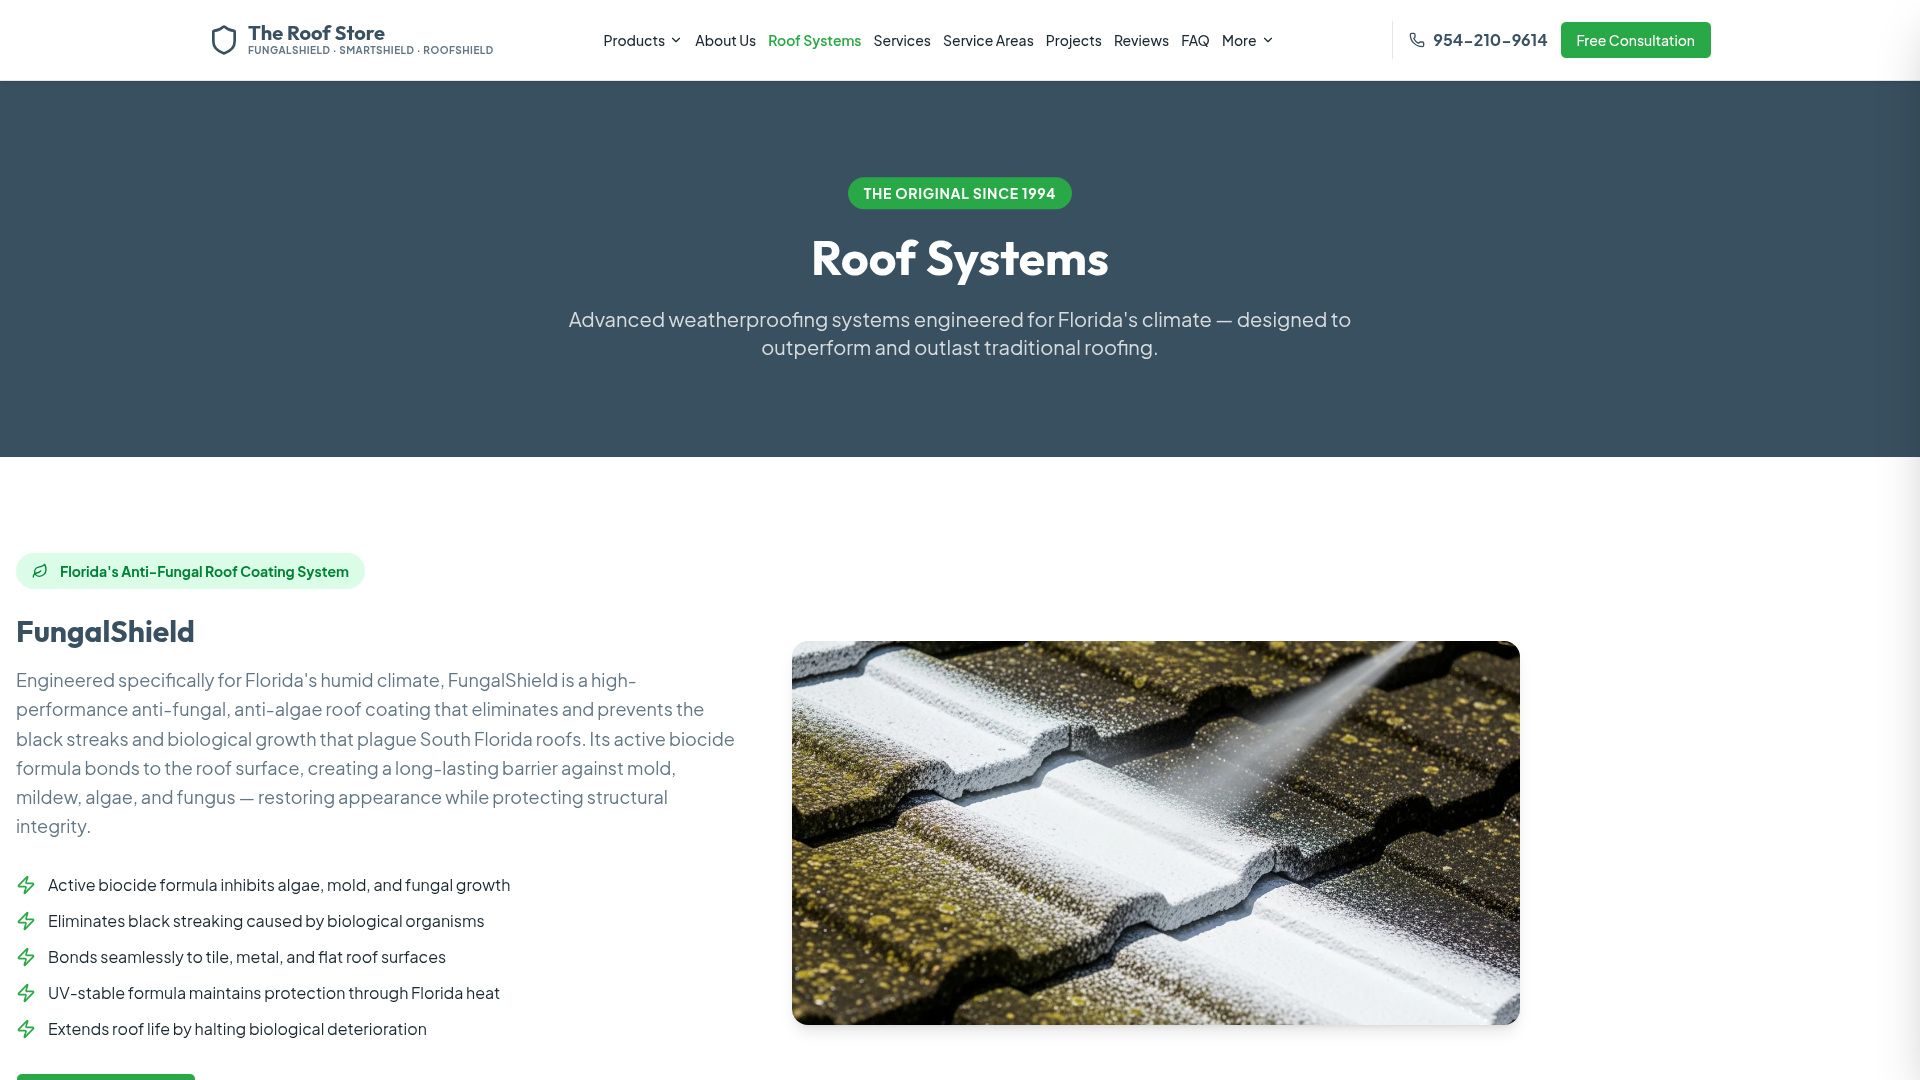
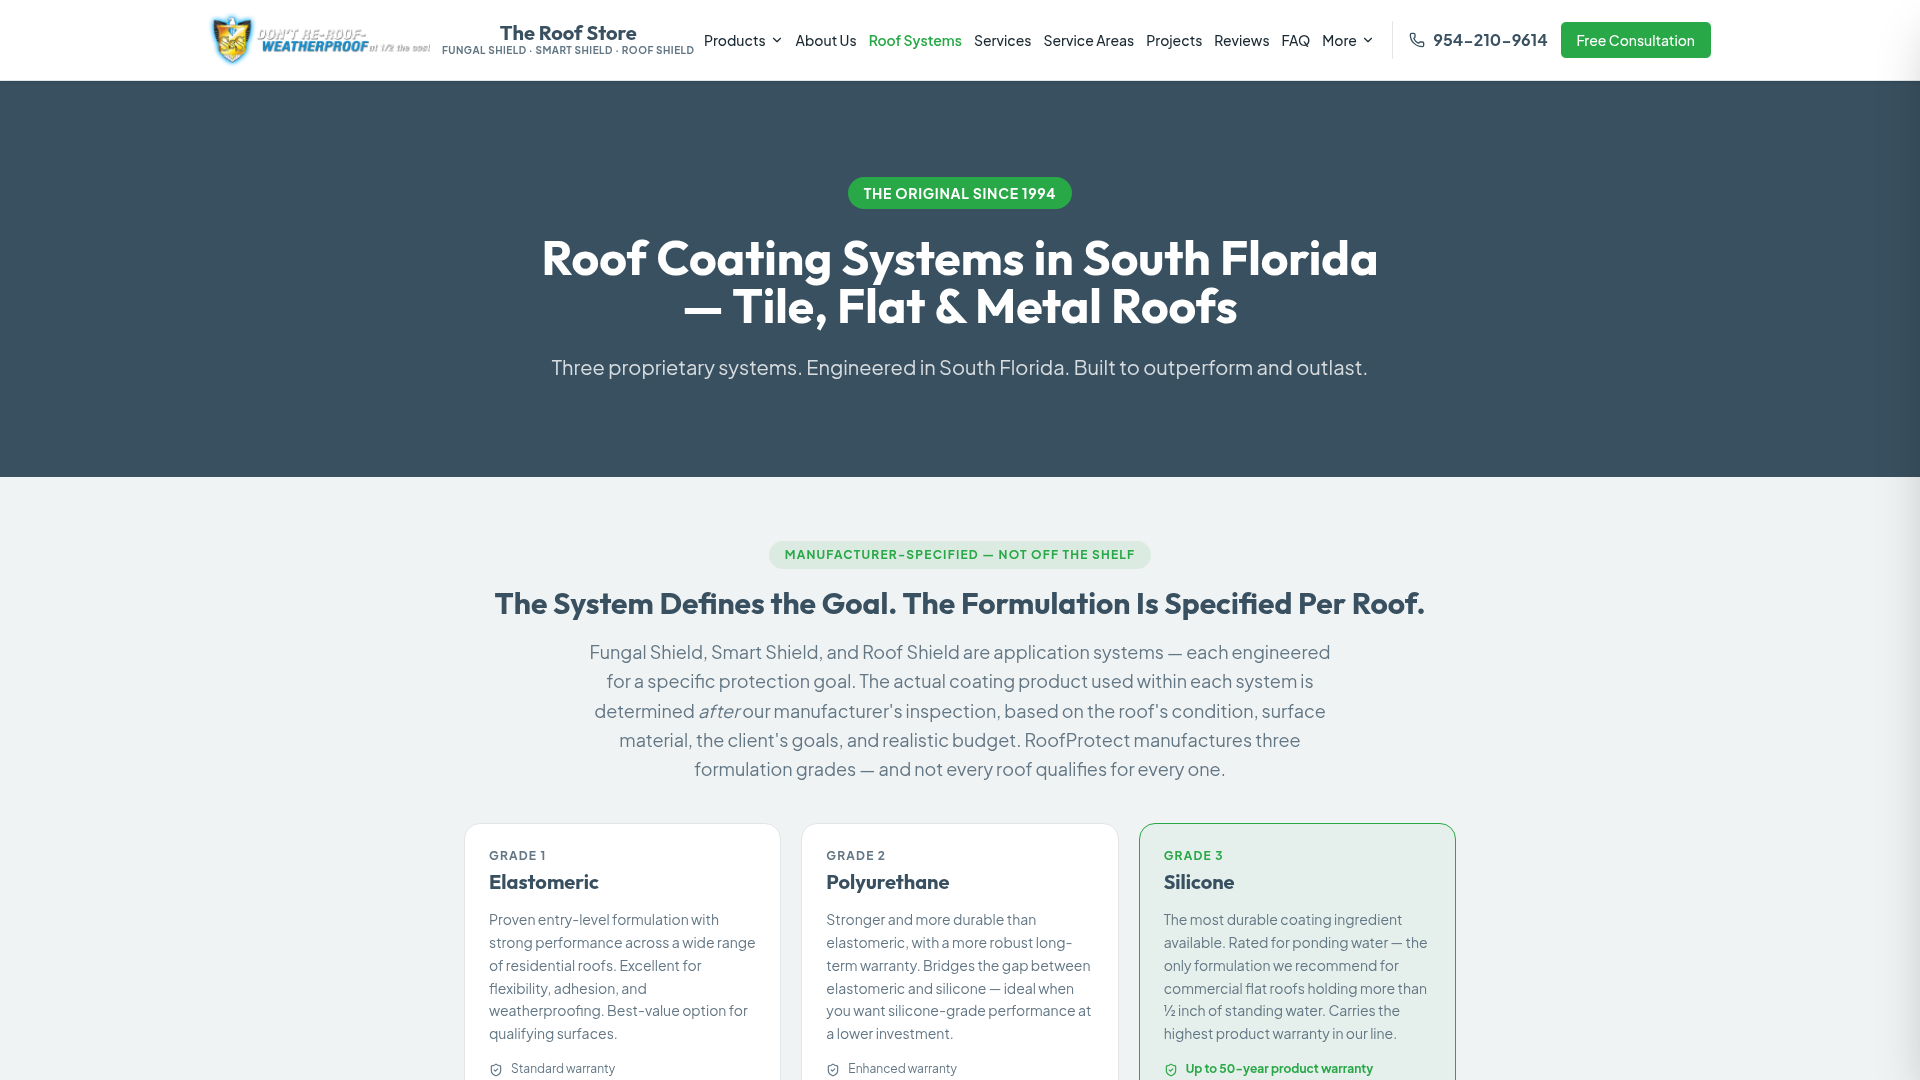
Update product images to use existing site assets
Replaces outdated gallery images for the Smart Shield product with existing images found on the roof-systems page, updating the `galleryImages` array in `products/data.ts`.

Replit-Commit-Author: Agent
Replit-Commit-Session-Id: b6256afe-f471-41e1-a4be-a79ed5052267
Replit-Commit-Checkpoint-Type: full_checkpoint
Replit-Commit-Event-Id: 0e53ca0e-d316-4e2a-8251-1efb5e93c328
Replit-Commit-Screenshot-Url: https://storage.googleapis.com/screenshot-production-us-central1/ed56006c-1475-44bc-a14e-edad2aa3212e/b6256afe-f471-41e1-a4be-a79ed5052267/7hNjIqt
Replit-Helium-Checkpoint-Created: true

diff --git a/artifacts/roof-store/src/pages/products/data.ts b/artifacts/roof-store/src/pages/products/data.ts
@@ -189,44 +189,24 @@ export const smartShield: ProductData = {
   pdfLabel: "Smart Shield Product Sheet (PDF)",
   galleryImages: [
     {
-      src: "https://www.theroofstore.net/assets/images/prep-image-smart-shield-1.png",
-      alt: "Smart Shield Step 1 — open valleys waterproofed",
-      caption: "Step 1 — Open valleys waterproofed",
+      src: `${BASE}/images/projects/spanish-tile-extra-3.png`,
+      alt: "Composite tile roof coated with Smart Shield color roof system",
+      caption: "Smart Shield color system — composite tile",
     },
     {
-      src: "https://www.theroofstore.net/assets/images/prep-image-smart-shield-2.jpeg",
-      alt: "Smart Shield Step 2 — ridge caps polyurethaned and fiber coated for hurricane wind-lift protection",
-      caption: "Step 2 — Ridge caps polyurethaned & fiber coated (hurricane wind-lift protection)",
+      src: `${BASE}/images/projects/spanish-tile-extra-4.png`,
+      alt: "Composite tile roof restoration with Smart Shield cool pigment coating",
+      caption: "Smart Shield cool pigment — restored tile roof",
     },
     {
-      src: "https://www.theroofstore.net/assets/images/prep-image-smart-shield-3.jpeg",
-      alt: "Smart Shield Step 3 — primer sealer applied",
-      caption: "Step 3 — Primer sealer applied",
+      src: `${BASE}/images/projects/spanish-tile-extra-1.png`,
+      alt: "Composite tile roof close-up after Smart Shield application",
+      caption: "Smart Shield application — close-up finish",
     },
     {
-      src: "https://www.theroofstore.net/assets/images/smart-sheild-top-coated.jpeg",
-      alt: "Smart Shield Step 4 — final top coat with color applied",
-      caption: "Step 4 — Final top coat with color",
-    },
-    {
-      src: "https://www.theroofstore.net/assets/images/Refelctive-smart-shield-prep-1.jpeg",
-      alt: "Reflective Smart Shield — darker colors reflect more heat",
-      caption: "Darker colors reflect MORE heat — BASF Cool Pigment",
-    },
-    {
-      src: "https://www.theroofstore.net/assets/images/Refelctive-smart-shield-prep-3.jpeg",
-      alt: "Reflective Smart Shield completed installation",
-      caption: "Completed Smart Shield installation — heat reflecting",
-    },
-    {
-      src: "https://www.theroofstore.net/assets/images/making-color.jpeg",
-      alt: "Mixing custom Smart Shield colors at our Davie FL factory",
-      caption: "Factory-mixed custom colors — Davie, FL",
-    },
-    {
-      src: "https://www.theroofstore.net/assets/images/custom-colors-2.png",
-      alt: "Smart Shield hard-copy color code samples — 3,000+ options",
-      caption: "3,000 color options — hard-copy samples available",
+      src: `${BASE}/images/projects/spanish-tile-extra-2.png`,
+      alt: "Composite tile roof home exterior restored with Smart Shield",
+      caption: "Full home exterior — Smart Shield restored",
     },
   ],
 };
